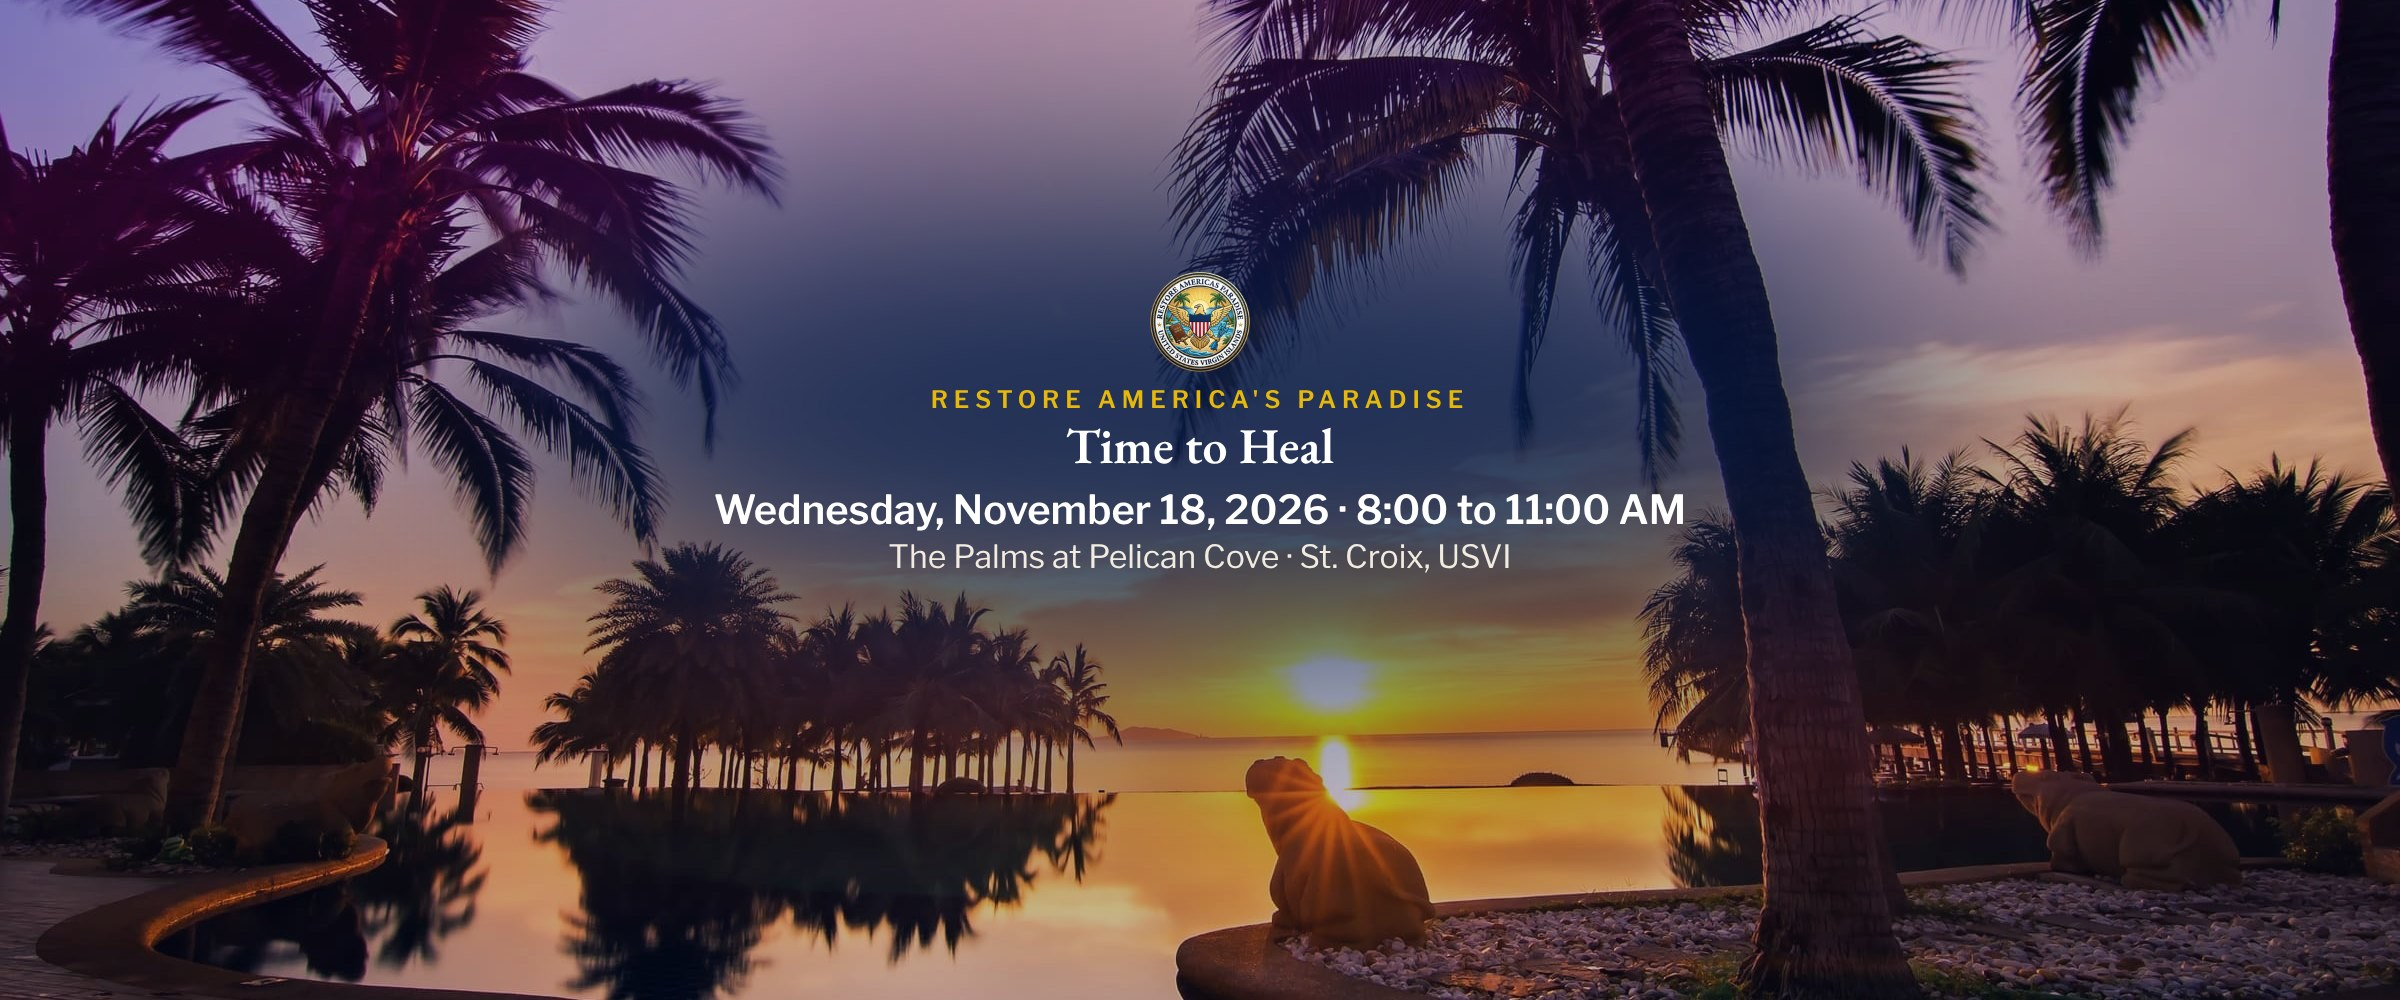
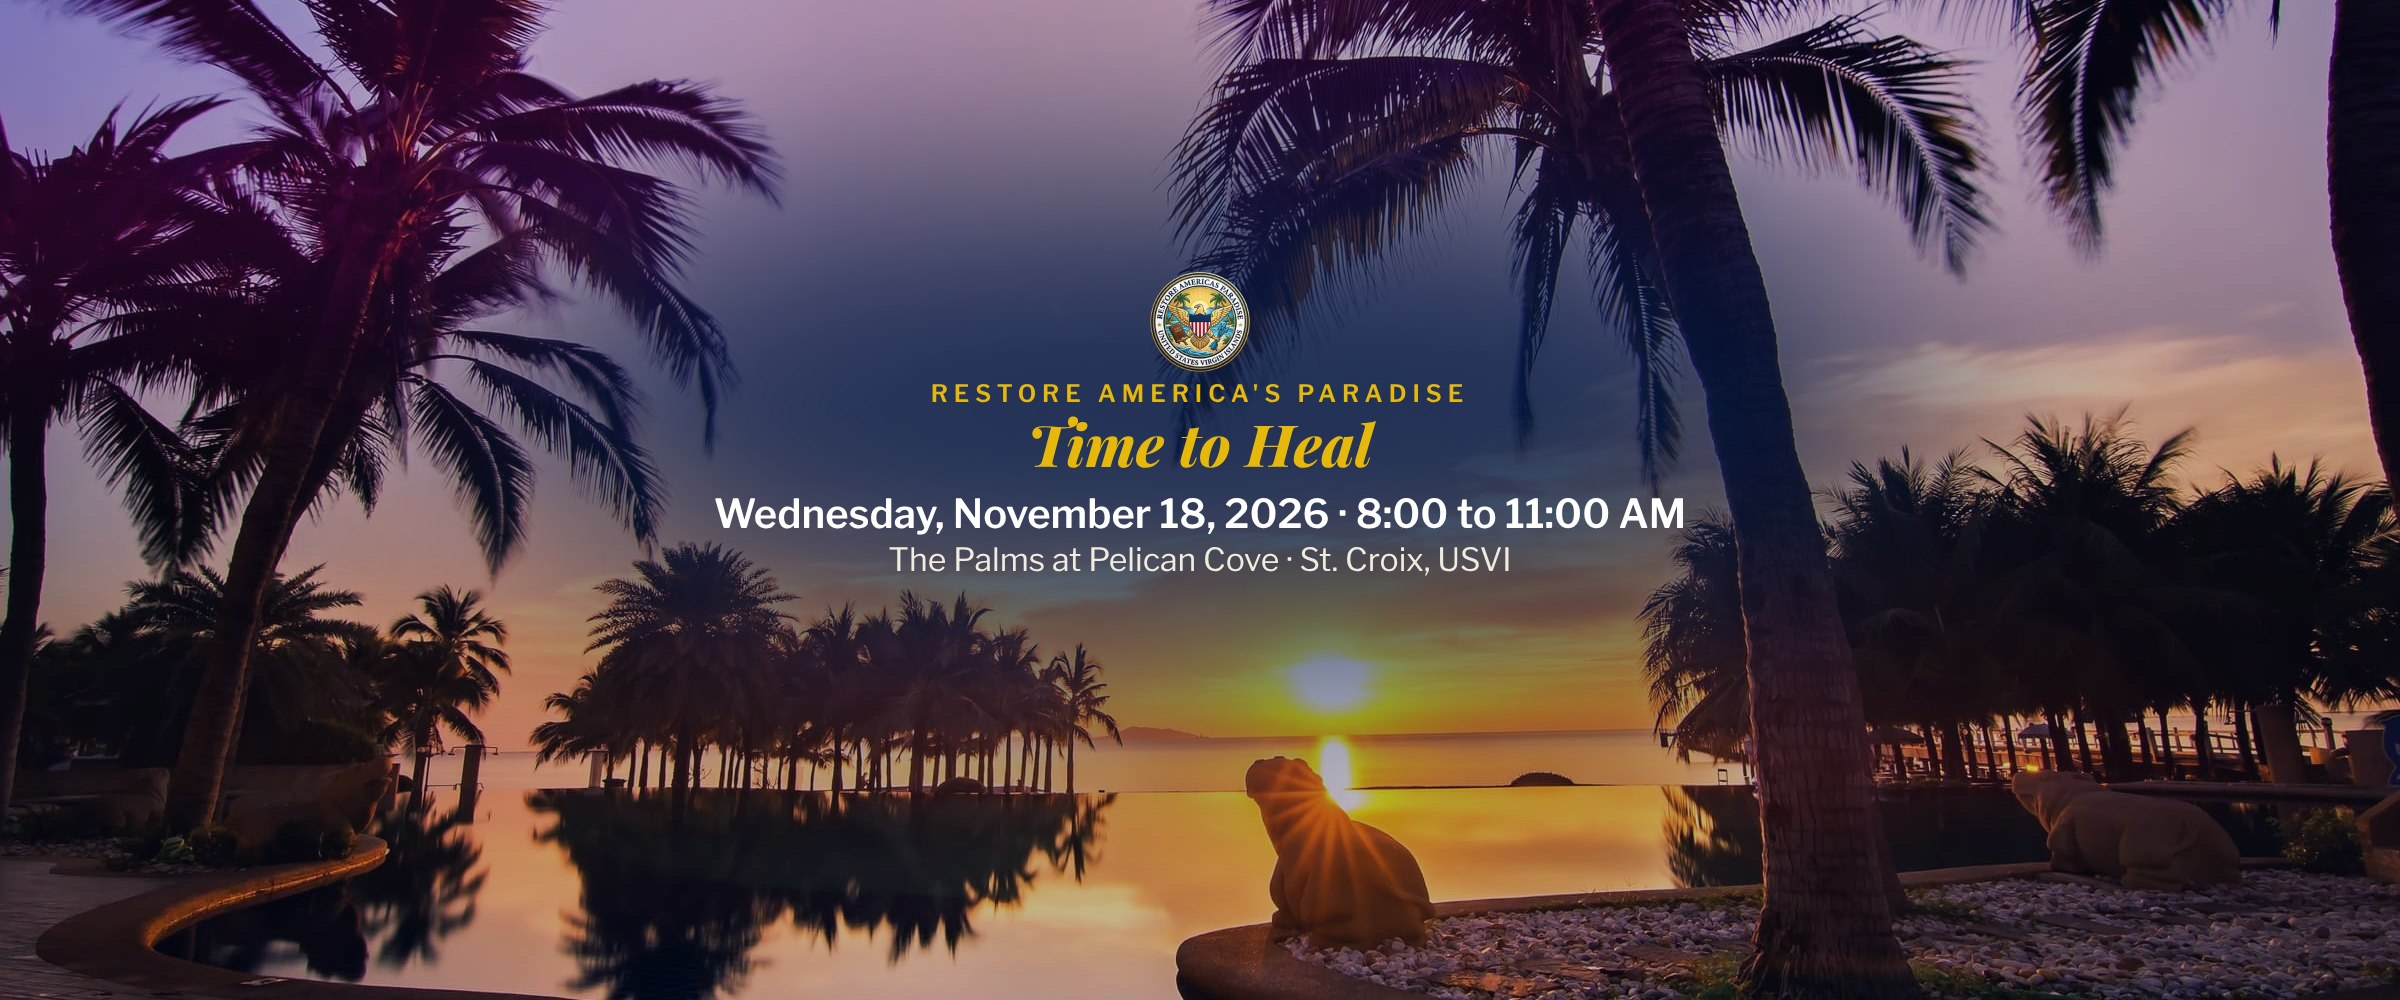
Event tagline field shown in a bold italic standout face
Adds an optional tagline to events (max 80 chars). The site shows it in
Playfair Display ExtraBold Italic, a face used nowhere else, on the event
page, event cards, the home page carousel, the past event section and the
event pop-up. Admins set it in the event form, with a live preview.

Prayer Breakfast flyers and banner re-rendered with Time to Heal in the
same bold italic face, in gold.

Requires migration 20261028140000_event_tagline.sql before deploy.

Claude-Session: https://claude.ai/code/session_01M2qWJtymH9MmYB1RhJ8Zy1

Changed region(s): [[0.2812, 0.372, 0.7188, 0.589]]

diff --git a/src/components/admin/EventForm.tsx b/src/components/admin/EventForm.tsx
@@ -45,6 +45,7 @@ const POPUP_IMAGE_LABELS: Record<PopupImageSource, string> = {
 
 export interface EventFormInitial {
   title: string;
+  tagline: string;
   slug: string;
   description: string;
   locationName: string;
@@ -95,6 +96,7 @@ function tierToDraft(tier: SponsorTier): SponsorTierDraft {
 
 const DEFAULTS: EventFormInitial = {
   title: "",
+  tagline: "",
   slug: "",
   description: "",
   locationName: "",
@@ -133,6 +135,7 @@ export function EventForm({ mode, eventId, initial, initialMedia }: EventFormPro
   const values = initial ?? DEFAULTS;
 
   const [title, setTitle] = useState(values.title);
+  const [tagline, setTagline] = useState(values.tagline);
   const [slug, setSlug] = useState(values.slug);
   const [slugTouched, setSlugTouched] = useState(mode === "edit");
   const [description, setDescription] = useState(values.description);
@@ -174,6 +177,7 @@ export function EventForm({ mode, eventId, initial, initialMedia }: EventFormPro
   function buildPayload() {
     return {
       title,
+      tagline,
       slug,
       description,
       locationName,
@@ -293,6 +297,28 @@ export function EventForm({ mode, eventId, initial, initialMedia }: EventFormPro
             onChange={(e) => handleTitleChange(e.target.value)}
             className={FIELD_CLASS}
           />
+        </div>
+        <div>
+          <label htmlFor="ev-tagline" className={LABEL_CLASS}>
+            TAGLINE (optional, shown in bold italic on the event page, event cards and pop-up)
+          </label>
+          <input
+            id="ev-tagline"
+            value={tagline}
+            maxLength={80}
+            onChange={(e) => setTagline(e.target.value)}
+            placeholder="Time to Heal"
+            aria-describedby={tagline.trim() ? "ev-tagline-preview" : undefined}
+            className={FIELD_CLASS}
+          />
+          {tagline.trim() && (
+            <p id="ev-tagline-preview" className="mt-2 text-sm text-on-surface-variant">
+              Preview:{" "}
+              <span className="font-[family-name:var(--font-tagline)] text-lg font-extrabold italic text-primary">
+                {tagline.trim()}
+              </span>
+            </p>
+          )}
         </div>
         <div>
           <label htmlFor="ev-slug" className={LABEL_CLASS}>

diff --git a/src/app/layout.tsx b/src/app/layout.tsx
@@ -1,5 +1,5 @@
 import type { Metadata } from "next";
-import { EB_Garamond, Public_Sans } from "next/font/google";
+import { EB_Garamond, Playfair_Display, Public_Sans } from "next/font/google";
 import { PostHogProvider } from "@/components/analytics/PostHogProvider";
 import { CookieConsentBanner } from "@/components/analytics/CookieConsentBanner";
 import CrisisSupport from "@/components/layout/CrisisSupport";
@@ -11,6 +11,14 @@ const ebGaramond = EB_Garamond({
   subsets: ["latin"],
   weight: ["400", "500", "600", "700"],
   style: ["normal", "italic"],
+});
+
+/** Display face for event taglines only, so they stand out from headlines and body text. */
+const playfairDisplay = Playfair_Display({
+  variable: "--font-playfair-display",
+  subsets: ["latin"],
+  weight: "800",
+  style: "italic",
 });
 
 const publicSans = Public_Sans({
@@ -43,7 +51,7 @@ export default function RootLayout({
   children: React.ReactNode;
 }>) {
   return (
-    <html lang="en" className={`${ebGaramond.variable} ${publicSans.variable} scroll-smooth`}>
+    <html lang="en" className={`${ebGaramond.variable} ${playfairDisplay.variable} ${publicSans.variable} scroll-smooth`}>
       <head>
         <link
           href="https://fonts.googleapis.com/css2?family=Material+Symbols+Outlined:wght,FILL@100..700,0..1&display=block"

diff --git a/src/app/(site)/events/[slug]/page.tsx b/src/app/(site)/events/[slug]/page.tsx
@@ -11,6 +11,7 @@ import { EventPayPalProvider } from "@/components/events/EventPayPalProvider";
 import { getSponsorTierSales } from "@/lib/eventCheckout";
 import { sanitizeStoredDescription } from "@/lib/sanitizeHtml";
 import { site } from "@/lib/content";
+import { EventTagline } from "@/components/events/EventTagline";
 
 // Capacity/spots-left must always be live, and this must never depend on
 // Supabase being reachable at build time — same reasoning as the admin pages.
@@ -102,6 +103,10 @@ export default async function EventDetailPage({ params }: { params: Promise<{ sl
       <EventPayPalProvider enabled={isTicketed || sponsorTierViews.length > 0}>
       <div className="mx-auto grid max-w-container-max grid-cols-1 gap-12 px-margin-mobile py-16 md:px-margin-desktop lg:grid-cols-3">
         <div className="space-y-6 lg:col-span-2">
+          <EventTagline
+            text={event.tagline}
+            className="border-l-4 border-harvest-gold pl-4 text-3xl text-primary md:text-4xl"
+          />
           <div className="flex flex-wrap items-center gap-3 text-caribbean-azure">
             <span className="material-symbols-outlined" aria-hidden="true">
               calendar_month

diff --git a/src/components/events/EventCard.tsx b/src/components/events/EventCard.tsx
@@ -2,10 +2,11 @@ import Link from "next/link";
 import Image from "next/image";
 import { formatEventDate, formatEventTime } from "@/lib/events";
 import type { EventRow } from "@/lib/events";
+import { EventTagline } from "@/components/events/EventTagline";
 
 type EventCardData = Pick<
   EventRow,
-  "slug" | "title" | "start_at" | "location_name" | "banner_url" | "banner_alt"
+  "slug" | "title" | "tagline" | "start_at" | "location_name" | "banner_url" | "banner_alt"
 >;
 
 export function EventCard({ event }: { event: EventCardData }) {
@@ -36,6 +37,7 @@ export function EventCard({ event }: { event: EventCardData }) {
           {formatEventDate(event.start_at)}
         </p>
         <h3 className="font-[family-name:var(--font-headline)] text-xl text-primary">{event.title}</h3>
+        <EventTagline text={event.tagline} className="text-lg text-primary" />
         {event.location_name && <p className="text-sm text-on-surface-variant">{event.location_name}</p>}
         <p className="mt-auto pt-2 text-sm font-medium text-primary">
           {formatEventTime(event.start_at)} AST · View details →

diff --git a/src/components/sections/CommunityEvent.tsx b/src/components/sections/CommunityEvent.tsx
@@ -5,6 +5,7 @@ import { EventCarousel } from "@/components/events/EventCarousel";
 import { formatEventDateBadge, formatEventTime } from "@/lib/events";
 import type { EventRow } from "@/lib/events";
 import { sanitizeStoredDescription, withSanitizedDescription } from "@/lib/sanitizeHtml";
+import { EventTagline } from "@/components/events/EventTagline";
 
 // Same filter as the all-events page: published events, ending in the future,
 // soonest first — so this section always mirrors what's live on /events.
@@ -114,6 +115,7 @@ export async function CommunityEvent() {
             <h3 className="mb-4 font-[family-name:var(--font-headline)] text-3xl text-primary md:text-4xl">
               {pastEvent.title}
             </h3>
+            <EventTagline text={pastEvent.tagline} className="mb-6 text-2xl text-primary md:text-3xl" />
             <div className="mb-8 flex flex-wrap items-center gap-3 text-caribbean-azure">
               <span className="material-symbols-outlined" aria-hidden="true">
                 location_on

diff --git a/src/components/events/EventCarousel.tsx b/src/components/events/EventCarousel.tsx
@@ -5,6 +5,7 @@ import Image from "next/image";
 import Link from "next/link";
 import { formatEventDateBadge, formatEventTime } from "@/lib/events";
 import type { EventRow } from "@/lib/events";
+import { EventTagline } from "@/components/events/EventTagline";
 
 export function EventCarousel({ events }: { events: EventRow[] }) {
   const trackRef = useRef<HTMLDivElement>(null);
@@ -116,6 +117,7 @@ function EventSlide({ event }: { event: EventRow }) {
         <h3 className="mb-4 font-[family-name:var(--font-headline)] text-3xl text-primary md:text-4xl">
           {event.title}
         </h3>
+        <EventTagline text={event.tagline} className="mb-6 text-2xl text-primary md:text-3xl" />
         <div className="mb-8 flex flex-wrap items-center gap-3 text-caribbean-azure">
           <span className="material-symbols-outlined" aria-hidden="true">
             location_on

diff --git a/src/components/events/EventPopup.tsx b/src/components/events/EventPopup.tsx
@@ -3,10 +3,12 @@
 import { useEffect, useState } from "react";
 import Link from "next/link";
 import Image from "next/image";
+import { EventTagline } from "@/components/events/EventTagline";
 
 export interface PopupEventData {
   slug: string;
   title: string;
+  tagline: string | null;
   popup_headline: string | null;
   popup_body: string | null;
   popup_cta_label: string;
@@ -76,6 +78,7 @@ export function EventPopup({ event }: { event: PopupEventData | null }) {
               </span>
             </button>
           </div>
+          <EventTagline text={event.tagline} className="mb-3 text-2xl text-primary" />
           {event.popup_body && <p className="mb-6 text-on-surface-variant">{event.popup_body}</p>}
           <Link href={`/events/${event.slug}`} onClick={close} className="btn btn-md btn-primary w-full">
             {event.popup_cta_label}

diff --git a/src/app/(site)/layout.tsx b/src/app/(site)/layout.tsx
@@ -22,7 +22,7 @@ async function getActivePopupEvent(): Promise<PopupEventData | null> {
     const { data } = await supabase
       .from("events")
       .select(
-        "slug, title, popup_headline, popup_body, popup_cta_label, popup_image_source, banner_url, flyer_3x5_url, flyer_4x5_url, flyer_9x16_url"
+        "slug, title, tagline, popup_headline, popup_body, popup_cta_label, popup_image_source, banner_url, flyer_3x5_url, flyer_4x5_url, flyer_9x16_url"
       )
       .eq("status", "published")
       .eq("popup_enabled", true)
@@ -37,6 +37,7 @@ async function getActivePopupEvent(): Promise<PopupEventData | null> {
     return {
       slug: data.slug,
       title: data.title,
+      tagline: data.tagline,
       popup_headline: data.popup_headline,
       popup_body: data.popup_body,
       popup_cta_label: data.popup_cta_label,

diff --git a/src/components/events/EventTagline.tsx b/src/components/events/EventTagline.tsx
@@ -1,0 +1,21 @@
+/**
+ * An event's tagline (for example "Time to Heal"). It is always set in the
+ * tagline display face, bold and italic, so it stands apart from the
+ * EB Garamond headlines and Public Sans body text around it.
+ */
+export function EventTagline({
+  text,
+  className = "",
+}: {
+  text: string | null | undefined;
+  className?: string;
+}) {
+  const tagline = text?.trim();
+  if (!tagline) return null;
+
+  return (
+    <p className={`font-[family-name:var(--font-tagline)] font-extrabold italic leading-tight ${className}`}>
+      {tagline}
+    </p>
+  );
+}

diff --git a/src/lib/validation/event.ts b/src/lib/validation/event.ts
@@ -50,6 +50,8 @@ const localDateTimeSchema = z
 export const eventSchema = z
   .object({
     title: z.string().trim().min(1, "Title is required").max(200),
+    /** Short phrase shown in the bold italic tagline face wherever the event appears. */
+    tagline: z.string().trim().max(80, "Keep the tagline to 80 characters or fewer").optional().or(z.literal("")),
     slug: z
       .string()
       .trim()

diff --git a/src/app/admin/events/actions.ts b/src/app/admin/events/actions.ts
@@ -82,6 +82,7 @@ function toSponsorTiers(inputs: SponsorTierInput[]): SponsorTier[] {
 function toEventRecord(data: EventInput) {
   return {
     title: data.title,
+    tagline: data.tagline || null,
     slug: data.slug,
     description: data.description ? sanitizeEventDescription(data.description) : "",
     location_name: data.locationName || "",

diff --git a/src/app/admin/(dashboard)/events/[id]/page.tsx b/src/app/admin/(dashboard)/events/[id]/page.tsx
@@ -16,6 +16,7 @@ export const dynamic = "force-dynamic";
 function toFormInitial(event: EventRow): EventFormInitial {
   return {
     title: event.title,
+    tagline: event.tagline ?? "",
     slug: event.slug,
     description: event.description,
     locationName: event.location_name,
